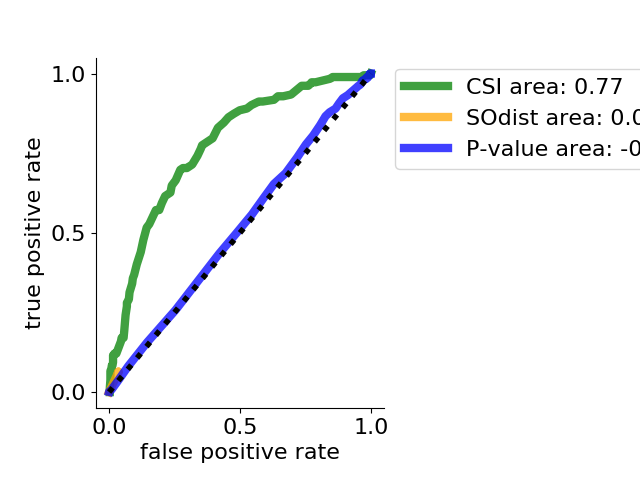
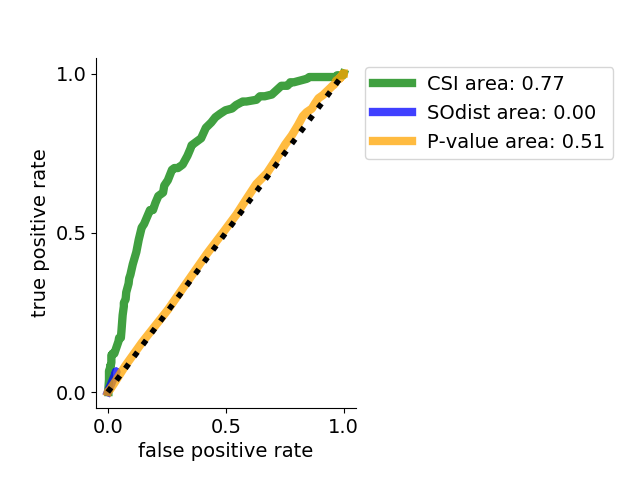
updated code and figures for the paper

diff --git a/plot_ROC_all_methods_072720.py b/plot_ROC_all_methods_072720.py
@@ -1,0 +1,193 @@
+# Written to copy ROC code for pvalues
+# and add results from sub-optimal distance
+# written 1-28-20 JLW
+# added CSI 1-31-20
+
+import pickle,os,csv,matplotlib
+matplotlib.use("AGG")
+import matplotlib.pyplot as plt
+import numpy as np
+from collections import defaultdict
+from scipy.integrate import simps
+from numpy import trapz
+
+# run through ROC data for each DME
+csi_roc_dir = 'ML_network_positives_negatives/log_reg/' 
+alf = [f for f in os.listdir(csi_roc_dir) if '_ylabels_scores_072720.pkl' in f] # tp, fp, threshlds from scipy model.fit
+csi_roc = dict([(f.replace('_ylabels_scores_072720.pkl',''),os.path.join(csi_roc_dir,f)) for f in alf])
+csi_dmes = [k for k in csi_roc.keys()]
+
+# merge all roc data for DMEs with sufficient evidence
+print('gathering roc data for csi analysis')
+all_roc = [(y_ts,y_score) for (dme,rocf) in csi_roc.items() for (y_ts,y_score) in pickle.load(open(rocf,'rb'))]
+min_score = min([x[1] for x in all_roc])
+max_score = max([x[1] for x in all_roc])
+step_size = (max_score-min_score)/100
+num_pos = len([x for x in all_roc if x[0]==1])
+num_neg = len([x for x in all_roc if x[0]==0])
+csi_roc_data = []
+for i in np.arange(min_score,max_score,step_size):
+	positives = [x for x in all_roc if x[1]>=i]
+	tp = float(len([x for x in positives if x[0]==1]))
+	fp = float(len([x for x in positives if x[0]==0]))
+	negatives = [x for x in all_roc if x[1]<i]
+	tn = float(len([x for x in negatives if x[0]==0]))
+	fn = float(len([x for x in negatives if x[0]==1]))
+	fpr = fp/(fp+tn)
+	tpr = tp/(tp+fn)
+	csi_roc_data.append((fpr,tpr))
+
+# also plot ROC curves for individual DMEs for supplment
+print('Making ROC curve with individual DMEs')
+fig,ax = plt.subplots()
+num_dmes = len(csi_roc)
+colormap = plt.cm.gist_ncar
+plt.gca().set_prop_cycle(plt.cycler('color', plt.cm.jet(np.linspace(0, 1, num_dmes))))
+for (dme,rocf) in sorted(csi_roc.items(),key=lambda x:x[0]):
+	dme_data = []
+	dme_roc_zip = pickle.load(open(rocf,'rb'))
+	dme_roc = [x for x in dme_roc_zip]
+	min_score = min([x[1] for x in dme_roc])
+	max_score = max([x[1] for x in dme_roc])
+	step_size = (max_score-min_score)/100
+	test_curve = []
+	for i in np.arange(min_score,max_score,step_size):
+		positives = [x for x in dme_roc if x[1]>=i]
+		tp = float(len([x for x in positives if x[0]==1]))
+		fp = float(len([x for x in positives if x[0]==0]))
+		negatives = [x for x in dme_roc if x[1]<i]
+		tn = float(len([x for x in negatives if x[0]==0]))
+		fn = float(len([x for x in negatives if x[0]==1]))
+		fpr = fp/(fp+tn)
+		tpr = tp/(tp+fn)			
+		dme_data.append((fpr,tpr))
+		test_curve.append((i,fpr,tpr))
+	(x,y) = zip(*dme_data)
+	ax.plot(x,y,label=dme)
+	
+
+# format figure for supplement
+ax.plot(np.linspace(0,1,100),np.linspace(0,1,100),linestyle=':',linewidth=4.0,color='k')
+ax.set_xlabel('false positive rate',fontsize=14)
+ax.set_ylabel('true positive rate',fontsize=14)
+ax.set_yticks([0,0.5,1.0])
+ax.set_xticks([0,0.5,1.0])
+for tick in ax.xaxis.get_major_ticks():
+        tick.label.set_fontsize(14)
+for tick in ax.yaxis.get_major_ticks():
+        tick.label.set_fontsize(14)
+ax.legend(bbox_to_anchor=(1.,1.),prop={"size":10},)#ncol=2)
+ax.spines['right'].set_visible(False)
+ax.spines['top'].set_visible(False)
+plt.subplots_adjust(right = 0.55555,bottom = 0.15, left = 0.15)
+plt.savefig('indiv_dme_ROC_092120.png',format="png") 
+		
+			
+
+# method for mapping all dmes to csi_dmes
+def check_csi_dme(raw_dme):
+	look_up_dme = raw_dme.lower().replace(' ','_')
+	if look_up_dme in csi_dmes:
+		return True
+	else:
+		return False
+
+## data from label extraction for doing counting
+drugs_by_dme = pickle.load(open('data/tpfp_drugs_by_dme.pkl','rb'))
+dmes_by_drug = pickle.load(open('data/tpfp_dmes_by_drug.pkl','rb'))
+fpdmes_by_drug = pickle.load(open('data/tpfp_fpdmes_by_drug.pkl','rb'))
+
+# start with all data, subset for dmes where we could perform logistic regression
+all_dmes = [k for k in drugs_by_dme.keys()]
+positives = [(dme,dbid) for (dme,dbid_list) in drugs_by_dme.items() for dbid in dbid_list if check_csi_dme(dme)]
+negatives = [(dme,dbid) for (dbid,dme_list) in fpdmes_by_drug.items() for dme in dme_list if check_csi_dme(dme)]
+
+## calculate results from sub-optimal distances
+print('gathering data for sub-optimal distance')
+so_rdir = 'analyze_so_dists/'
+all_dist = ['0.82','0.83','0.86','0.87','0.88','0.89','0.9','0.99']
+sodist_roc_data = []
+for sdist in all_dist:
+	print(sdist)
+	fp_to_tox_f = 'drugs_fp_to_tox_XXX.pkl'.replace('XXX',sdist)
+	fp_to_tox = pickle.load(open(os.path.join(so_rdir,fp_to_tox_f),'rb'))
+	false_pos = [(dme,dbid) for (dme,dbid_list) in fp_to_tox.items() for dbid in dbid_list if check_csi_dme(dme)]
+	true_negatives = set(negatives).difference(set(false_pos))
+
+	tp_to_tox_f = 'drugs_matched_to_tox_XXX.pkl'.replace('XXX',sdist)
+	tp_to_tox = pickle.load(open(os.path.join(so_rdir,tp_to_tox_f),'rb'))
+	true_pos = [(dme,dbid) for (dme,dbid_list) in tp_to_tox.items() for dbid in dbid_list if check_csi_dme(dme)]
+
+	tpr = len(true_pos)/float(len(positives))
+	tnr = len(true_negatives)/float(len(negatives))
+	fpr = 1-tnr
+	sodist_roc_data.append((fpr,tpr))
+
+# load the p-value data
+tp_dme_drug_pvalue = pickle.load(open('tp_dme_drug_pvalue.pkl','rb'))
+fp_dme_drug_pvalue = pickle.load(open('fp_dme_drug_pvalue.pkl','rb'))
+all_pvals = [x[2] for x in tp_dme_drug_pvalue] + [x[2] for x in fp_dme_drug_pvalue]
+min_pv = min(all_pvals)
+max_pv = max(all_pvals)
+step_size = (max_pv-min_pv)/float(100)
+pval_roc = []
+for i in np.arange(min_pv,max_pv,step_size):
+	tp_l = [(dme,dbid,pv) for (dme,dbid,pv) in tp_dme_drug_pvalue if pv <=i and check_csi_dme(dme)]
+	tp = float(len(set(tp_l)))
+	fp_l = [(dme,dbid,pv) for (dme,dbid,pv) in fp_dme_drug_pvalue if pv <=i and check_csi_dme(dme)]
+	fp = float(len(set(fp_l)))
+	tn_l = [(dme,dbid,pv) for (dme,dbid,pv) in fp_dme_drug_pvalue if pv >i and check_csi_dme(dme)]
+	tn = float(len(set(tn_l)))
+	fn_l = [(dme,dbid,pv) for (dme,dbid,pv) in tp_dme_drug_pvalue if pv >i and check_csi_dme(dme)]
+	fn = float(len(set(fn_l)))
+	fpr = fp/(fp+tn)
+	tpr = tp/(tp+fn)
+	pval_roc.append((fpr,tpr))
+	
+
+# plot the data and area using trapz method
+fig,ax = plt.subplots()
+(x,y) = zip(*csi_roc_data)
+csi_area = -trapz(y,x)
+ax.plot(x,y,linewidth=6.0,linestyle='-',alpha=0.75,color='green',label='CSI area: '+"{0:.2f}".format(csi_area))
+(x,y) = zip(*sodist_roc_data)
+sodist_area = -trapz(y,x)
+ax.plot(x,y,linewidth=6.0,linestyle='-',alpha=0.75,color='blue',label='SOdist area: '+"{0:.2f}".format(sodist_area))
+(x,y) = zip(*pval_roc)
+pval_area = trapz(y,x)
+ax.plot(x,y,linewidth=6.0,linestyle='-',alpha=0.75,color='orange',label='P-value area: '+"{0:.2f}".format(pval_area))
+
+ax.plot(np.linspace(0,1,100),np.linspace(0,1,100),linestyle=':',linewidth=4.0,color='k')
+ax.set_xlabel('false positive rate',fontsize=14)
+ax.set_ylabel('true positive rate',fontsize=14)
+ax.set_yticks([0,0.5,1.0])
+ax.set_xticks([0,0.5,1.0])
+for tick in ax.xaxis.get_major_ticks():
+        tick.label.set_fontsize(14)
+for tick in ax.yaxis.get_major_ticks():
+        tick.label.set_fontsize(14)
+ax.legend(bbox_to_anchor=(1.,1.),prop={"size":14},)#ncol=2)
+ax.spines['right'].set_visible(False)
+ax.spines['top'].set_visible(False)
+plt.subplots_adjust(right = 0.55555,bottom = 0.15, left = 0.15)
+# plt.savefig('test_merged_ROC_072720.png',format="png")
+plt.savefig('merged_ROC_072720.png',format="png")
+
+
+
+
+## load results from p-value
+#pv_roc_values = pickle.load(open('pvalue_roc_values.pkl','rb'))
+#
+## plot ROC curve
+#fig,ax = plt.subplots(figsize=(9,5))
+#(x,y) = zip(*pv_roc_values)
+#area2 = trapz(y,x)
+#print("AUROC P-value: "+str(area2))
+##ax.plot(x,y,linewidth=2.0,label='P-value')
+#(x,y) = zip(*roc_data)
+##ax.plot(x,y,linewidth=2.0,label='Distance')
+#area2 = trapz(y,x)
+#print("AUROC Distance: "+str(area2))
+
+

diff --git a/ML_network_positives_negatives/all_pathways.py b/ML_network_positives_negatives/all_pathways.py
@@ -237,11 +237,13 @@ def run_model(model, x_tr, y_tr, x_ts, y_ts, fcol):
         y_ts = None
         prediction_ts = None
 
-    # get y_scores for roc_curve
+    # get y_scores for roc_curve, this only works for logistic regression
     y_score = model.fit(x_tr, y_tr).decision_function(x_ts) 
+    y_score_data = zip(y_ts,y_score)
+    pickle.dump(y_score_data,open(os.path.join(save_dir,dme+'_ylabels_scores_072720.pkl'),'wb'))
     [fpr, tpr, thresholds] = roc_curve(y_ts, y_score)
     roc_data = zip(fpr,tpr)
-    pickle.dump(roc_data,open(os.path.join(save_dir,dme+'_roc_data.pkl'),'wb'))
+    pickle.dump(roc_data,open(os.path.join(save_dir,dme+'_roc_data_072720.pkl'),'wb'))
 
     scoring(y_tr, prediction_tr, y_ts, prediction_ts)
     if "Logistic" in model_name:
@@ -250,7 +252,7 @@ def run_model(model, x_tr, y_tr, x_ts, y_ts, fcol):
         pickle.dump(zip(fcol,fimp),open(os.path.join(save_dir,dme+'_feature_import.pkl'),'wb'))
     else:
         fimp = model.feature_importances_
-        print(str(list(zip(fcol, fimp))))
+        # print(str(list(zip(fcol, fimp))))
     histogram(fimp, fcol, title="features_"+model_name)
 
     if "Decision" in model_name:

diff --git a/ML_network_positives_negatives/run_all_dme_models_new_log_reg.py b/ML_network_positives_negatives/run_all_dme_models_new_log_reg.py
@@ -10,13 +10,13 @@ import matplotlib.pyplot as plt
 import numpy as np
 
 model_type = 'log_reg' # 'dec_tree' # 'rand_for'
-print('\n\nRUNNING: '+model_type+'\n\n')
+print('RUNNING: '+model_type+'\n\n')
 
 allf = [f for f in os.listdir('.') if 'dme_' in f and '.txt' in f]
 
 for f in allf:
 	dme = f.replace('dme_','').replace('.txt','')
-	print('\n\n\n'+dme)
+	print(dme)
 	# check if there are sufficient positive/negative labels
 	d = [l.strip().split('\t') for l in open(f,'rU').readlines()]
 	tp = len([x for x in d if x[1] =='positive'])

diff --git a/plot_ROC_all_methods.py b/plot_ROC_all_methods.py
@@ -21,7 +21,7 @@ all_dmes = [k for k in drugs_by_dme.keys()]
 positives = [(dme,dbid) for (dme,dbid_list) in drugs_by_dme.items() for dbid in dbid_list]
 negatives = [(dme,dbid) for (dbid,dme_list) in fpdmes_by_drug.items() for dme in dme_list]
 
-so_rdir = '/Users/jenniferwilson/Documents/pathfx_data_update/results/analyze_so_dists/'
+so_rdir = 'analyze_so_dists/'
 all_dist = ['0.82','0.83','0.86','0.87','0.88','0.89','0.9','0.99']
 roc_data = []
 for sdist in all_dist:

diff --git a/ML_network_positives_negatives/run_all_dme_models_ncv.py b/ML_network_positives_negatives/run_all_dme_models_ncv.py
@@ -19,7 +19,7 @@ m_i = dict([(m,i) for (i,m) in enumerate(model_types)]) # index for model type
 val_type ='nestedcv' 
 # for model_type in model_types:
 for model_type in ['log_reg','dec_tree']:
-	print('\n\nRUNNING: '+model_type+'\n\n')
+	print('RUNNING: '+model_type+'\n')
 	for f in allf:
 		dme = f.replace('dme_','').replace('.txt','')
 		print(dme)
